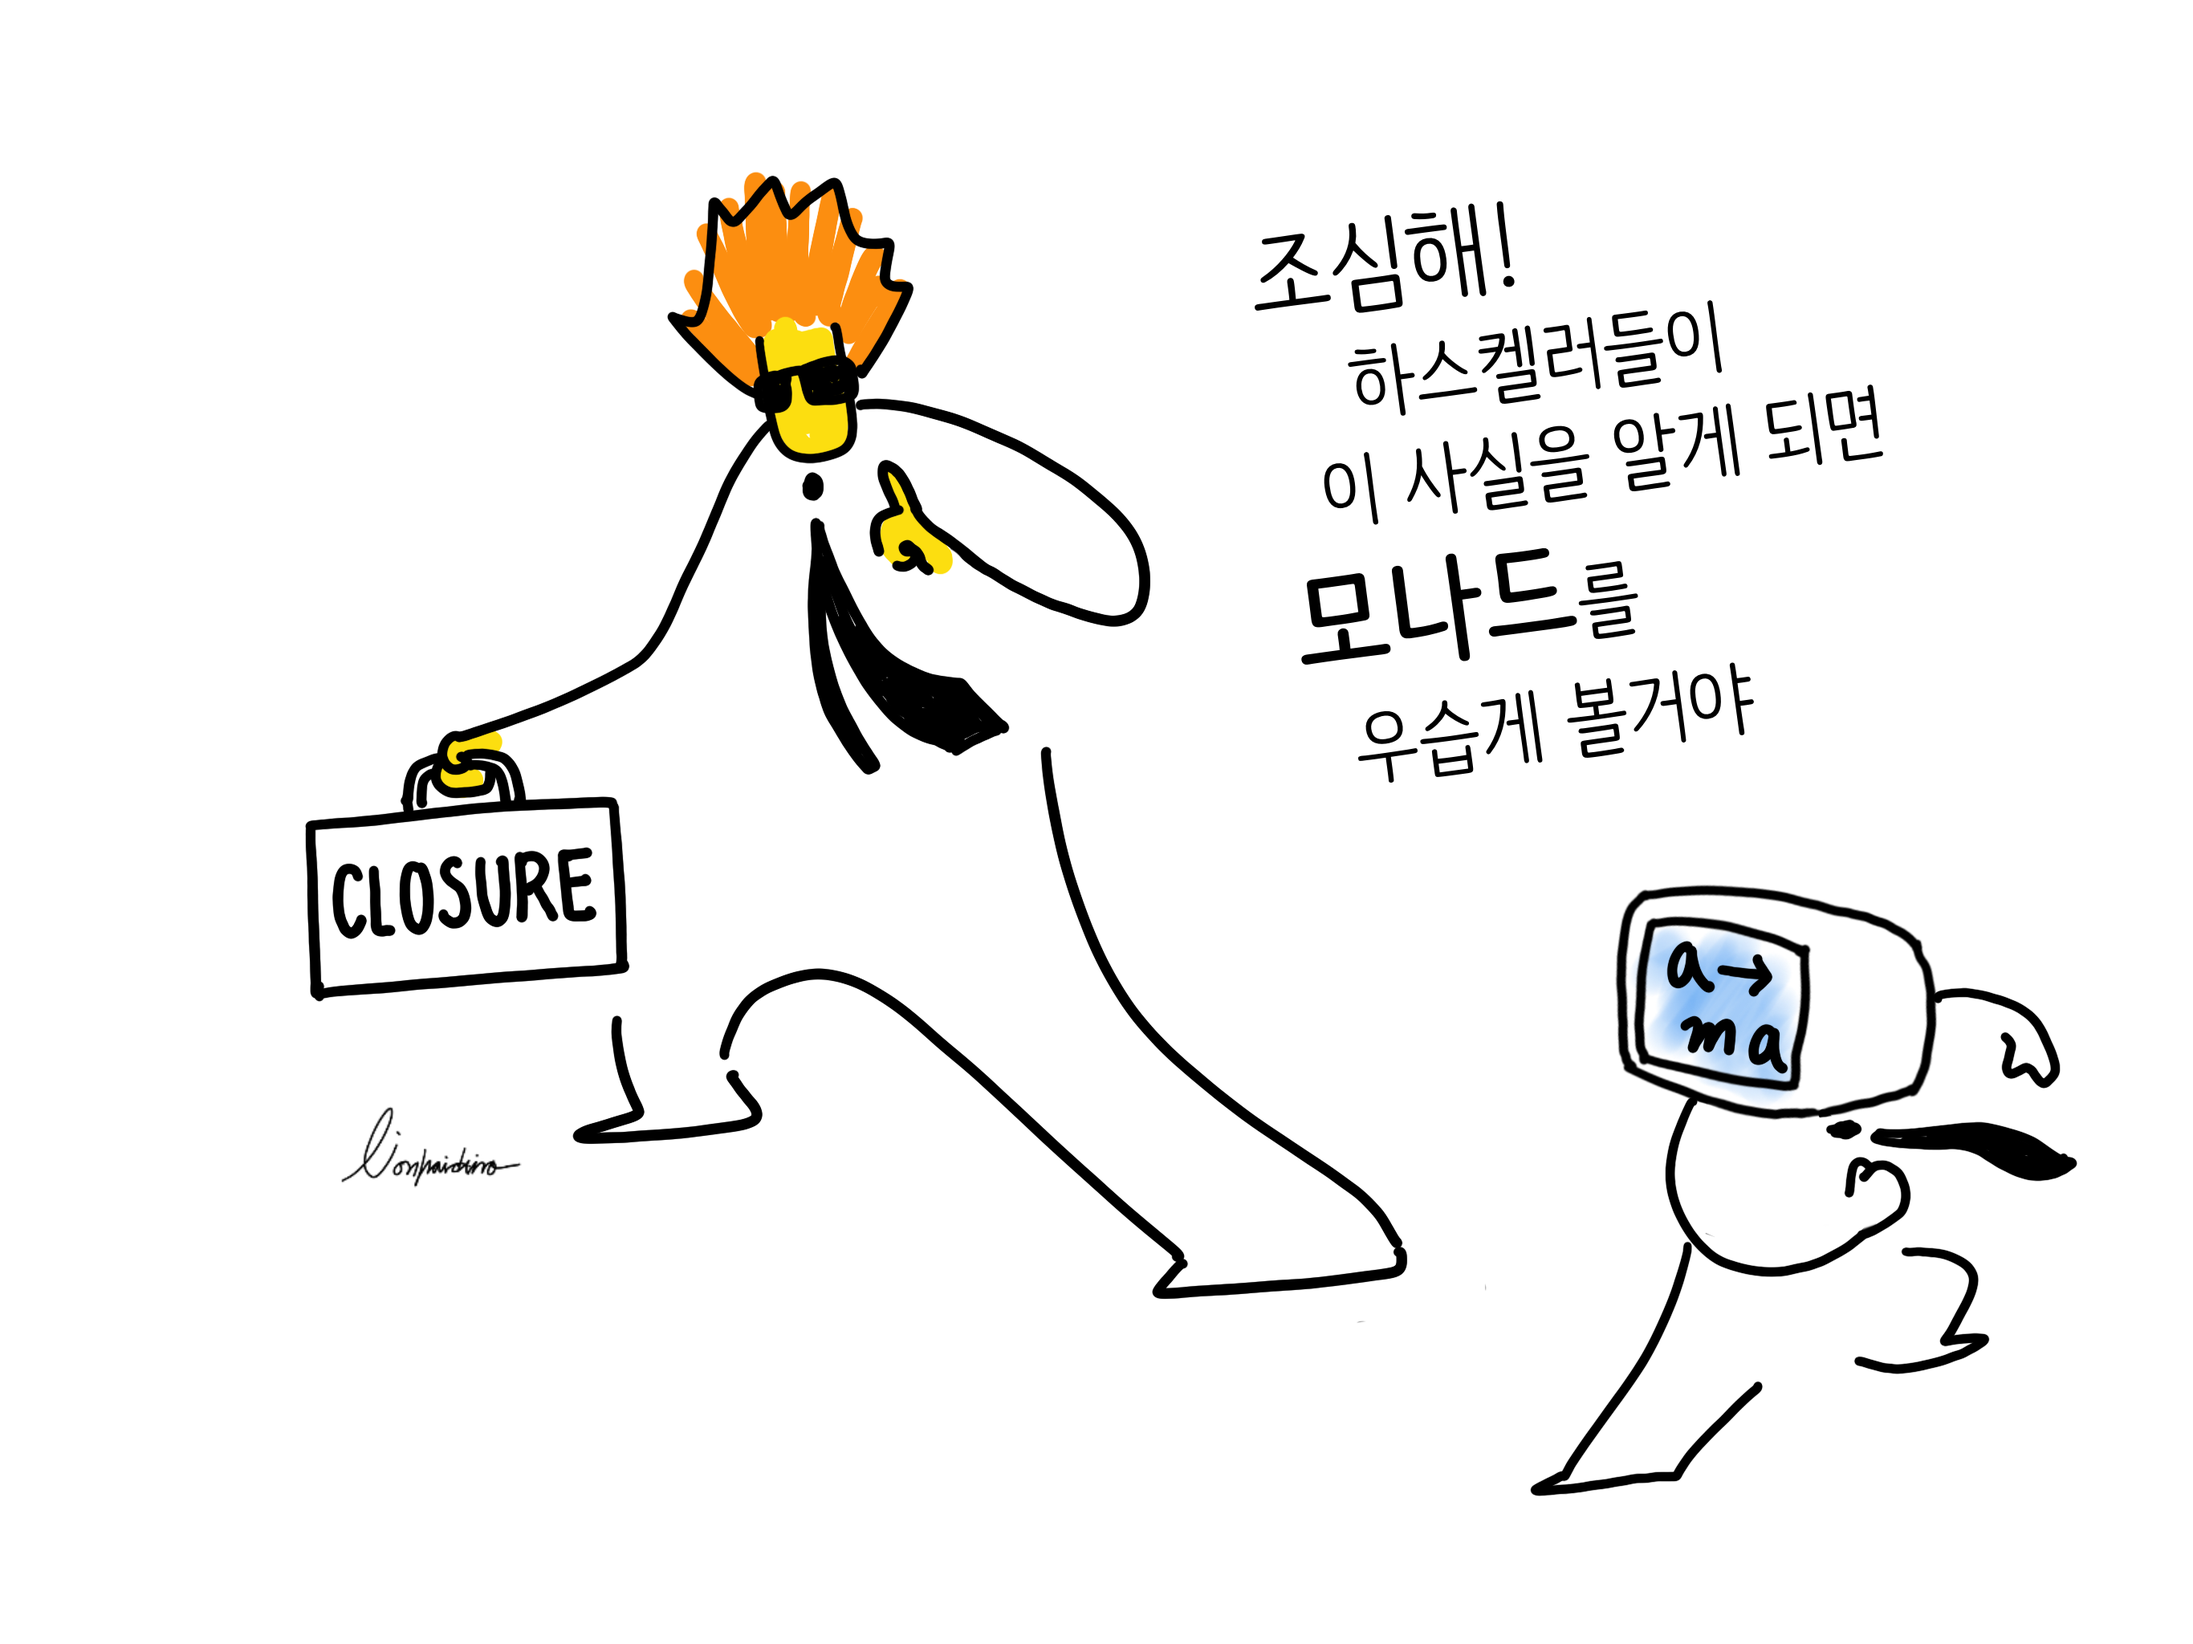
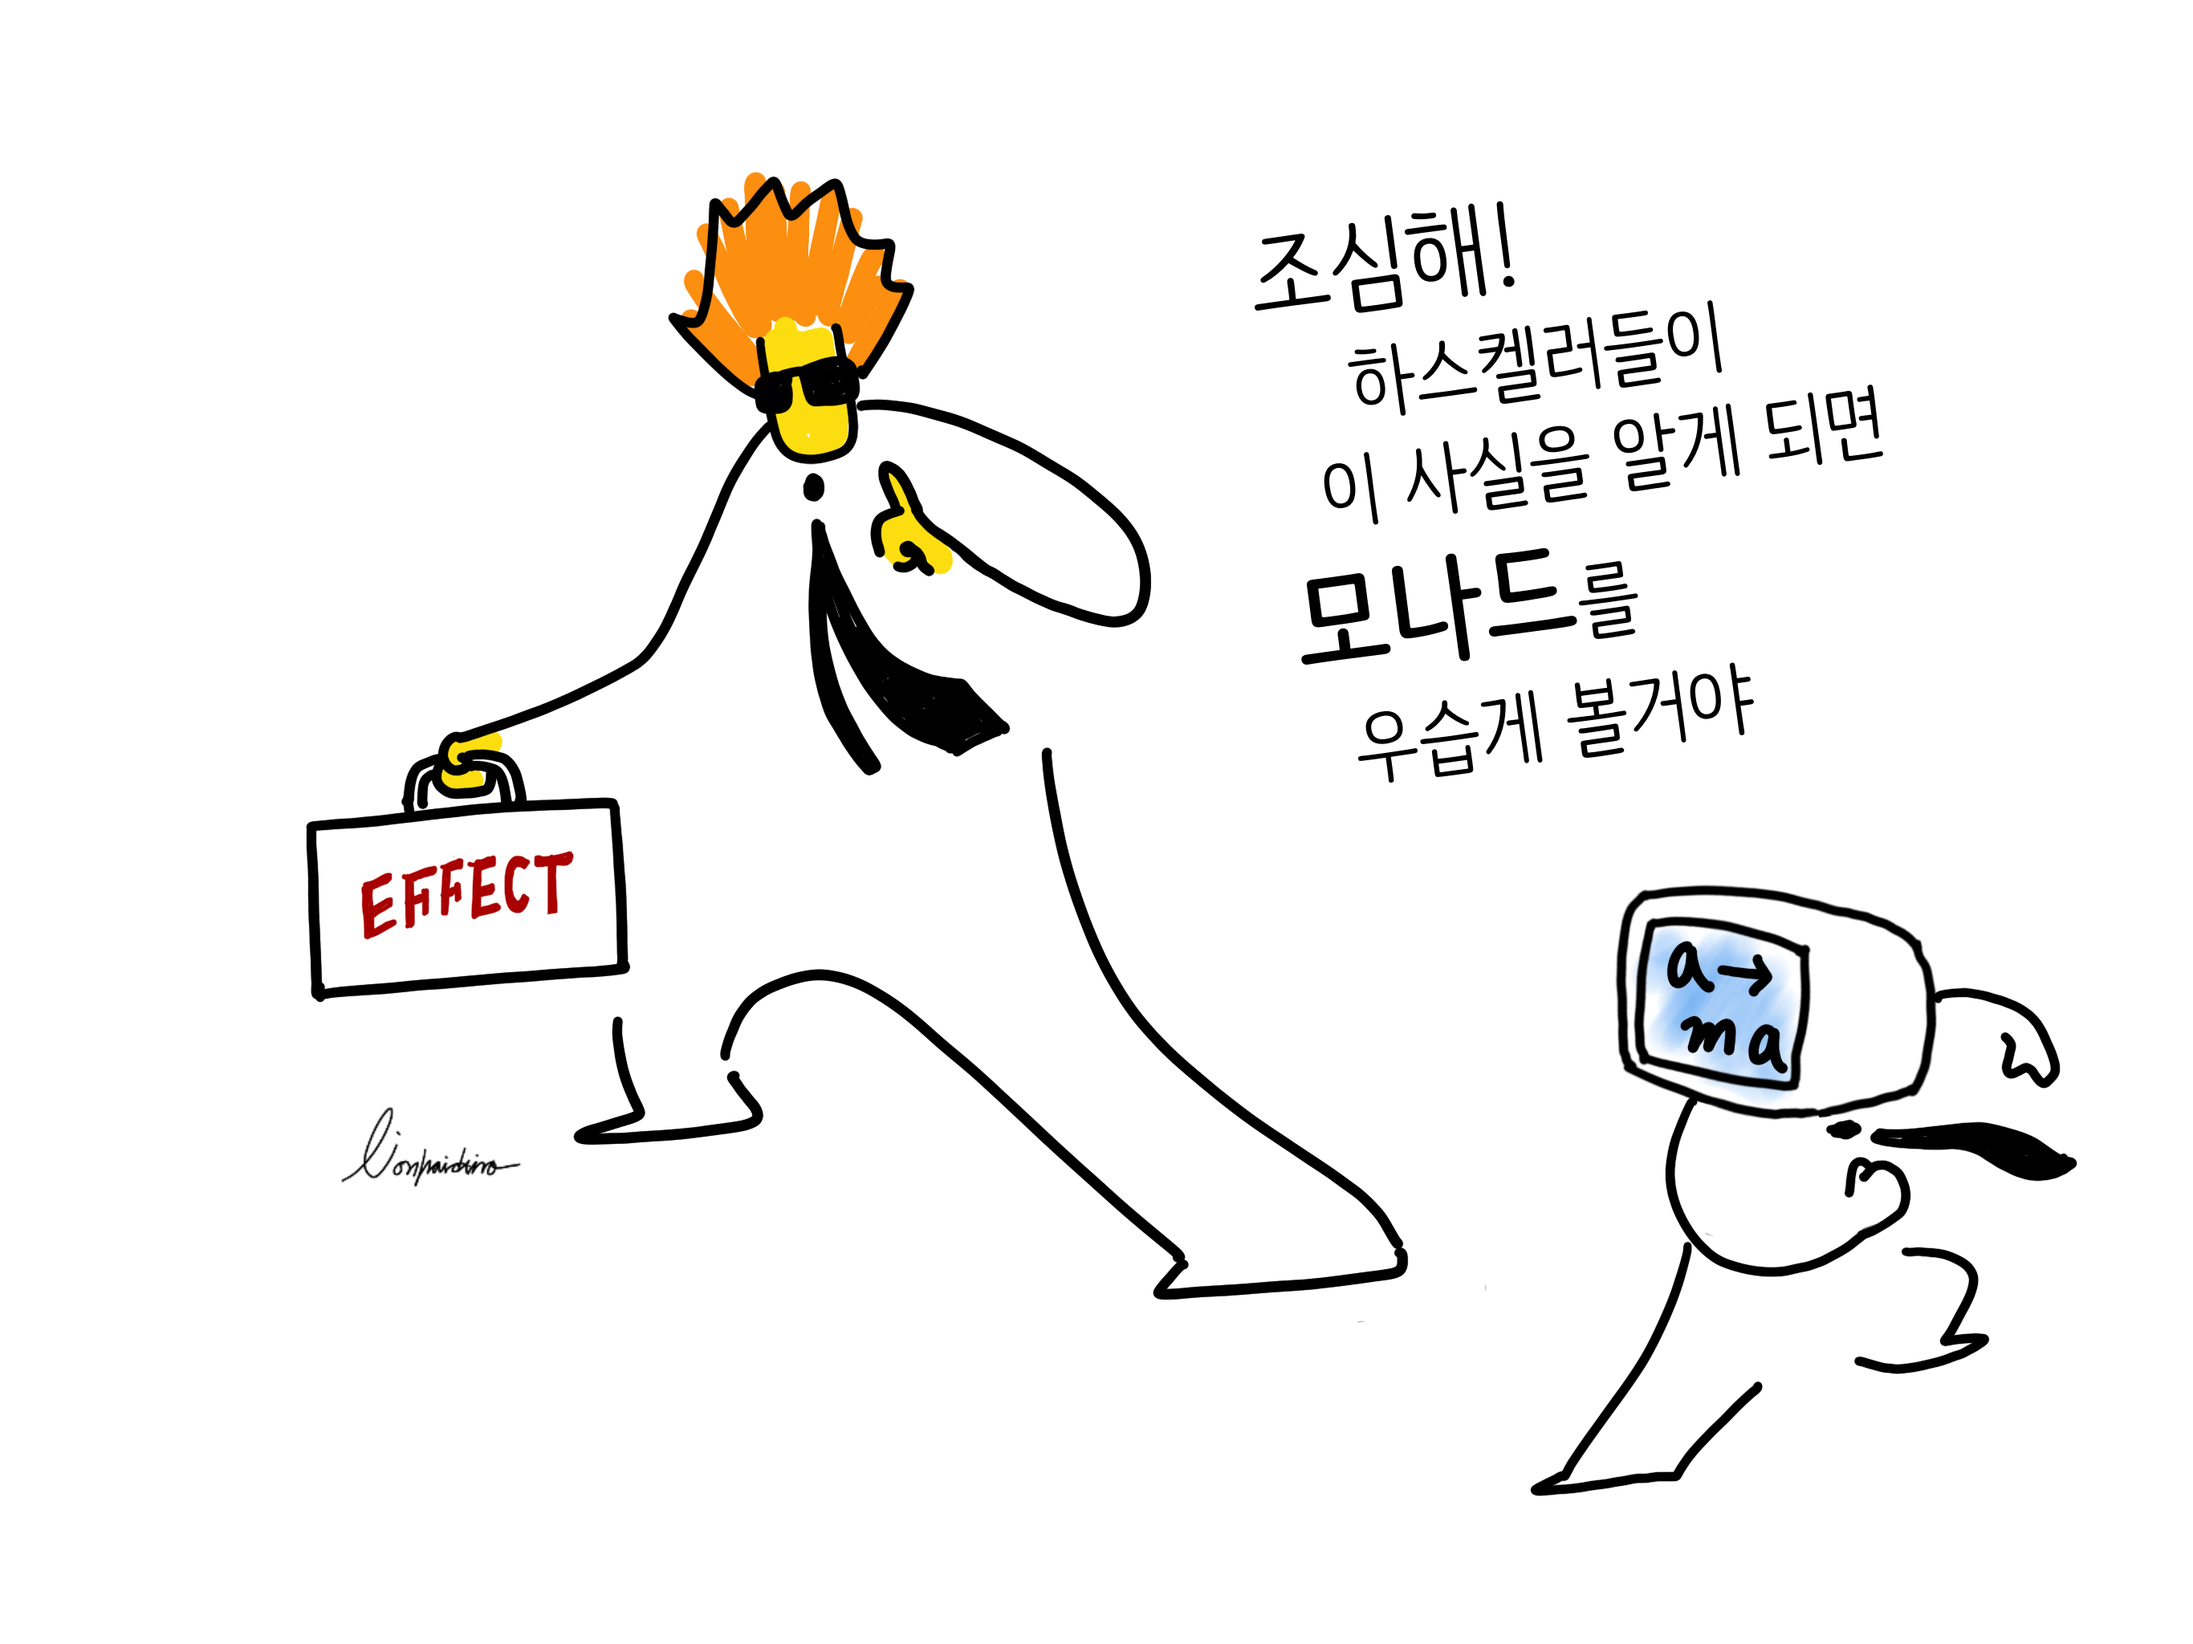
deploy: lionhairdino/siteSource@07ba7fd5987fe552f4df6c087de2d61417bdbecb

Changed region(s): [[0.1245, 0.4375, 0.28, 0.5938]]

diff --git a/posts/2020-06-24-Monad.html b/posts/2020-06-24-Monad.html
@@ -113,6 +113,7 @@
 <figure>
 <img src="../images/monadSecret.png" alt="아무리 그래도 모나드는 어렵습니다." /><figcaption aria-hidden="true">아무리 그래도 모나드는 어렵습니다.</figcaption>
 </figure>
+<p>※ 2023.1.7 가방에 적혀있던 글자를 CLOSURE에서 EFFECT로 바꿨습니다.</p>
 <h2 id="자신을-품고-있는-함수상위-함수의-매개-변수-값은-접근-할-수-있다-closure">자신을 품고 있는 함수(상위 함수)의 매개 변수 값은 접근 할 수 있다 Closure</h2>
 <p>람다 대수를 보면</p>
 <div class="sourceCode" id="cb2"><pre class="sourceCode haskell"><code class="sourceCode haskell"><span id="cb2-1"><a href="#cb2-1" aria-hidden="true" tabindex="-1"></a>𝜆x<span class="op">.</span>(𝜆y<span class="op">.</span>xy)</span></code></pre></div>
